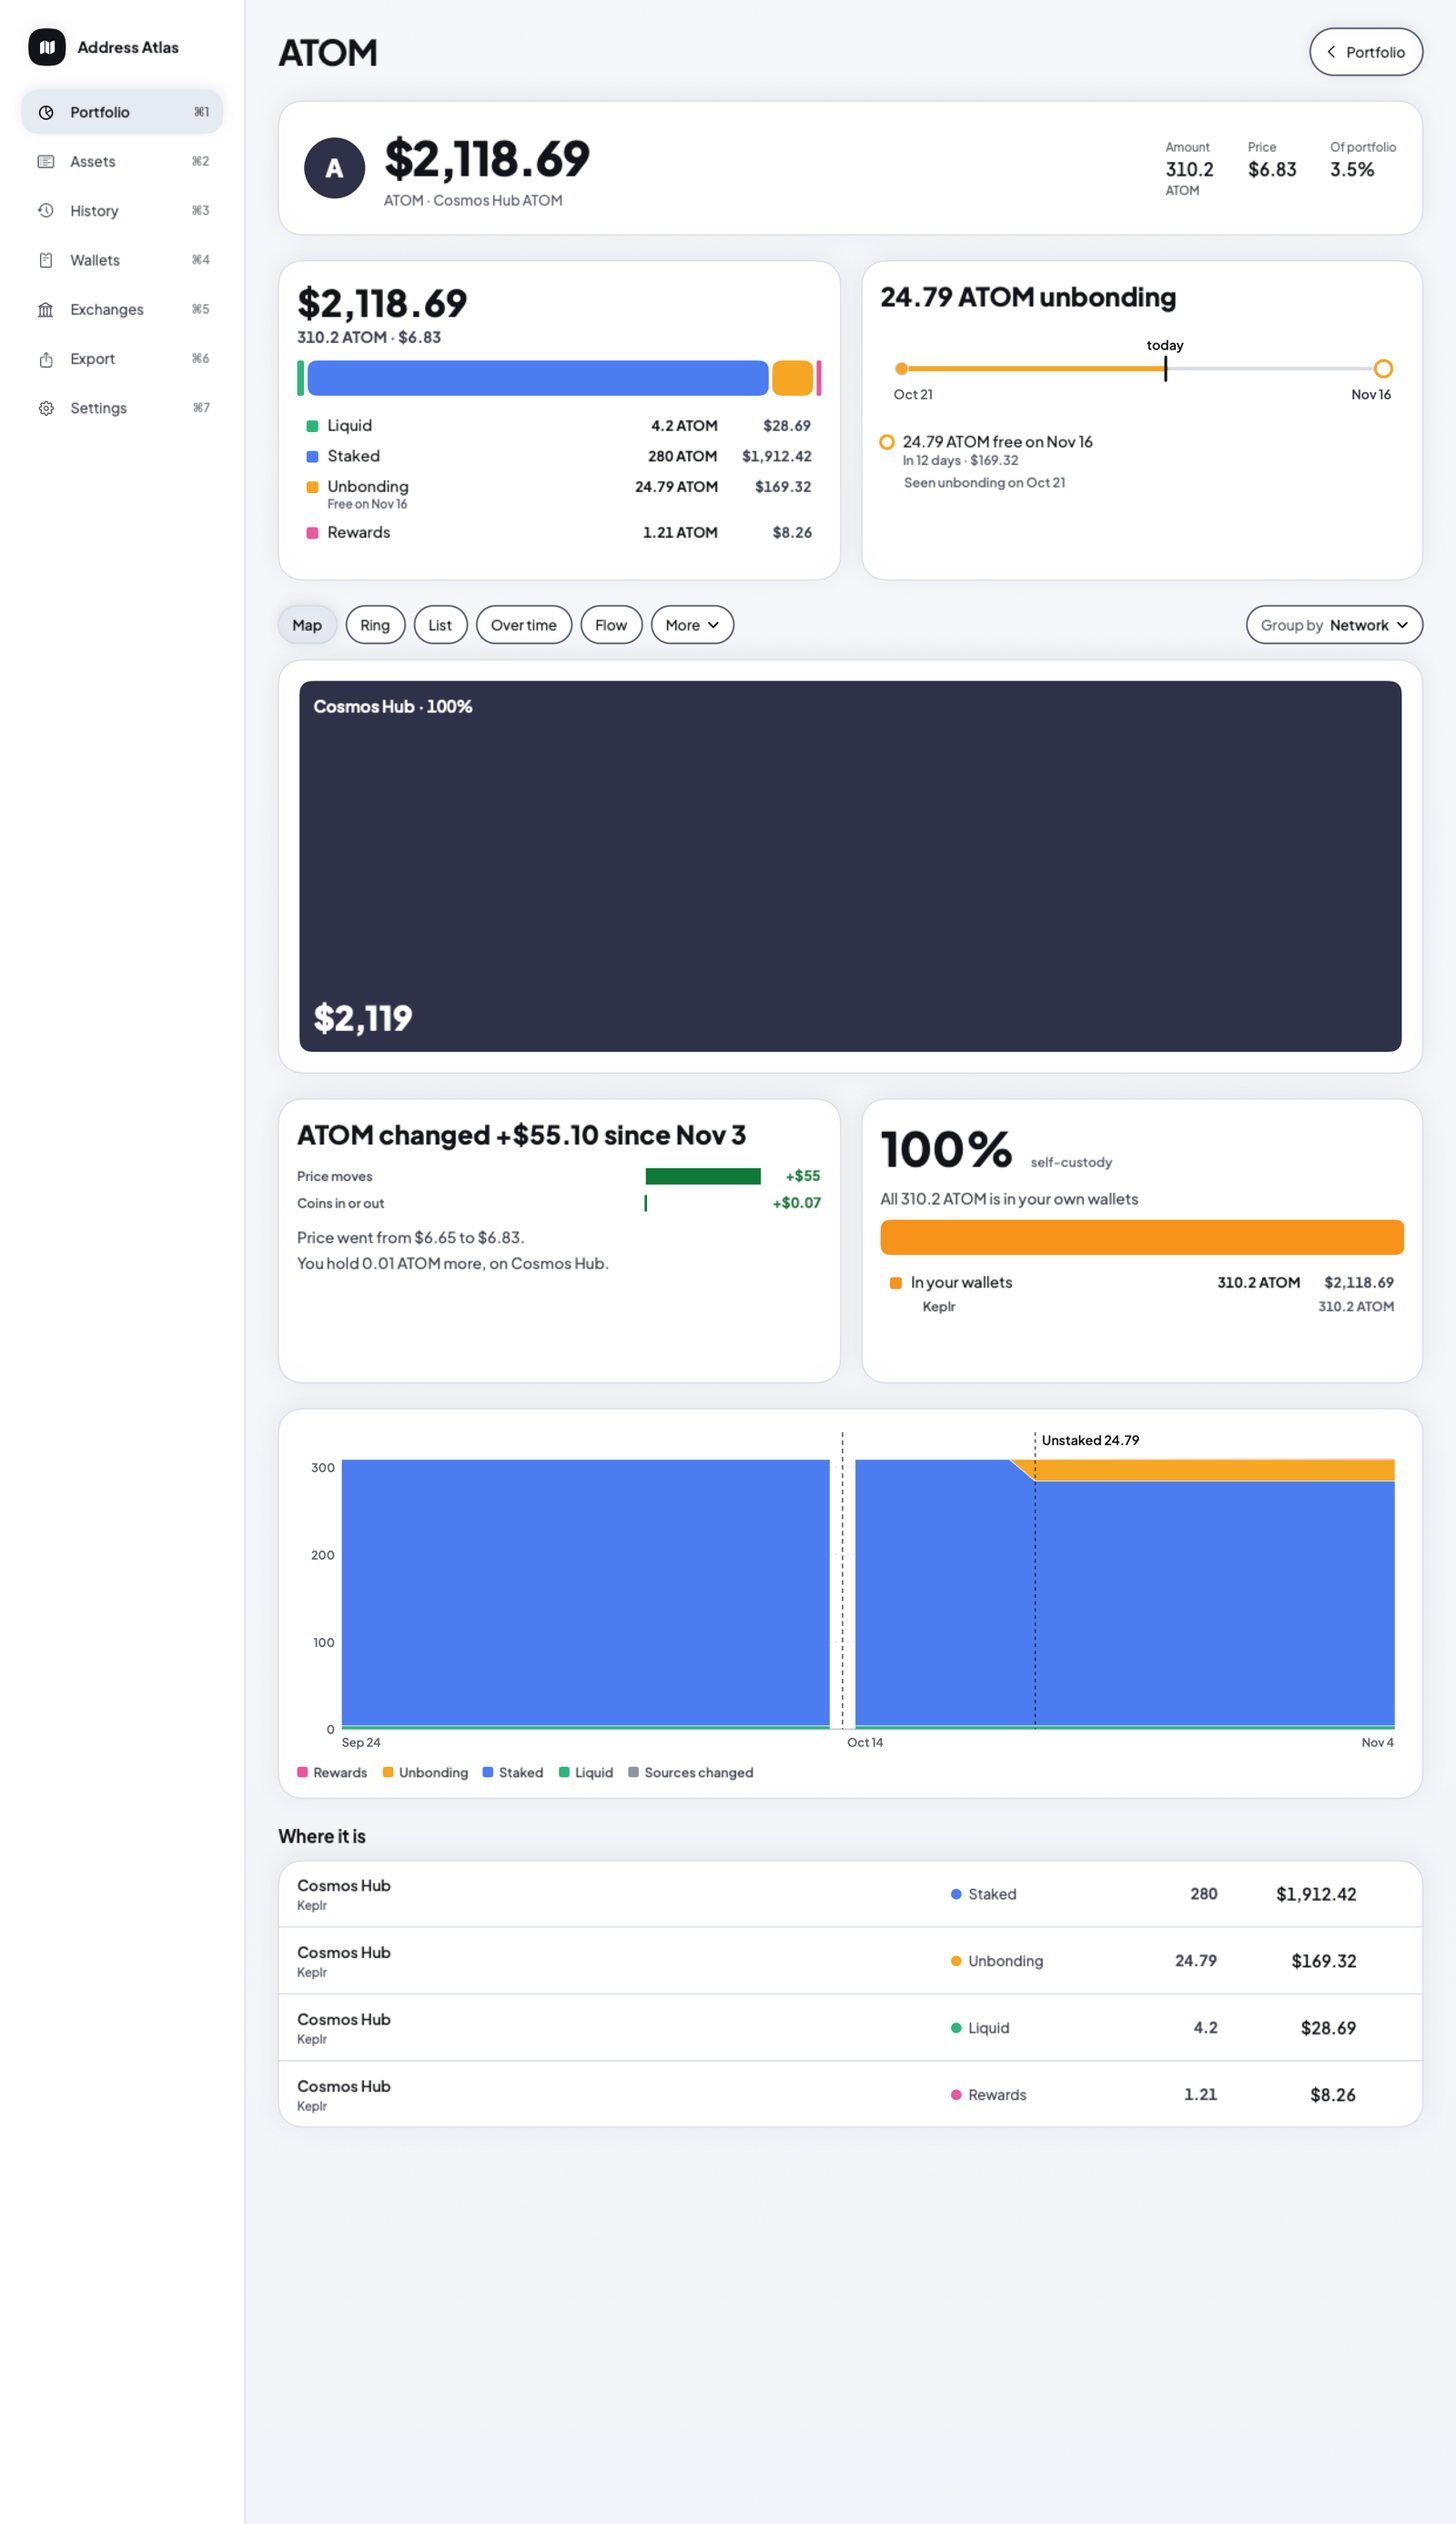
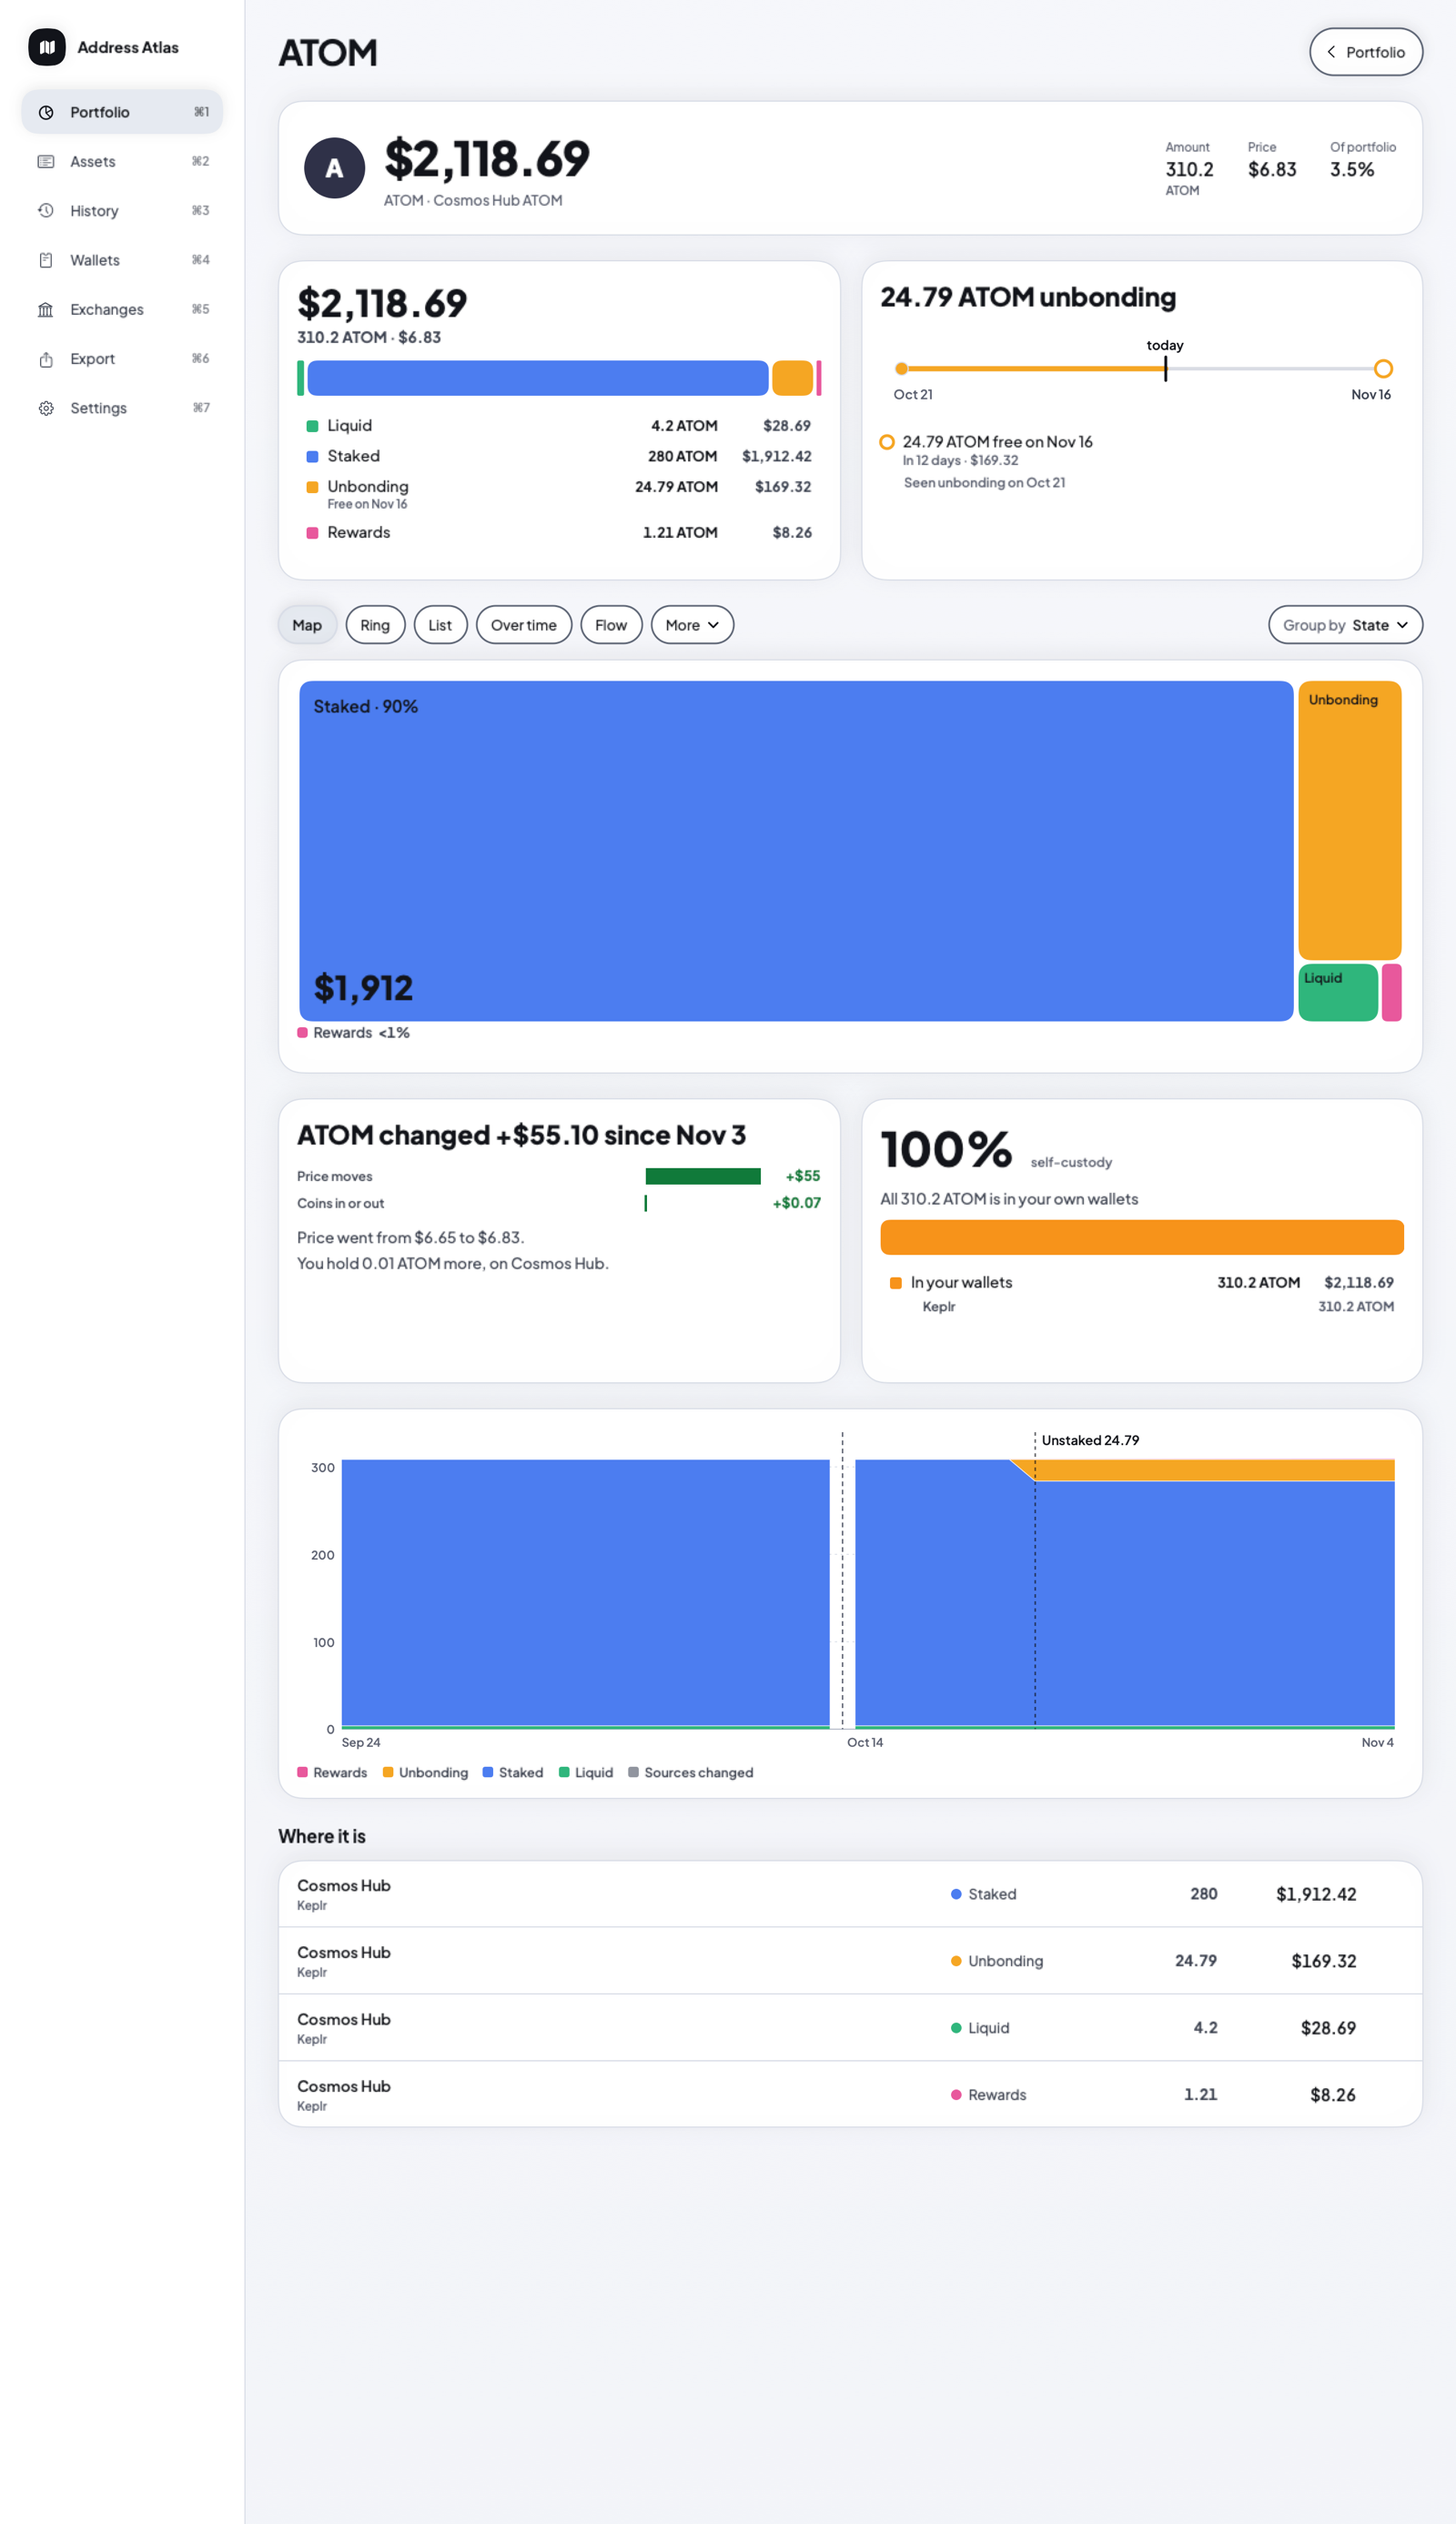
Fix pill outlines, narrow Concentration dial and coin detail grouping default
Pill controls draw as circular-corner capsules, the Concentration dial drops its
end labels and caption when it is narrow, and a coin held in several states opens
grouped by state.

Changed region(s): [[0.1875, 0.248, 0.9688, 0.434]]

diff --git a/native/AddressAtlasMac/Sources/AddressAtlasMac/MacScreens/CoinDetailScreen.swift b/native/AddressAtlasMac/Sources/AddressAtlasMac/MacScreens/CoinDetailScreen.swift
@@ -11,7 +11,8 @@ struct CoinDetailView: View {
   @Environment(\.macNow) private var now
 
   @State private var visualization: PortfolioVisualization
-  @State private var grouping: PortfolioGrouping
+  /// The grouping the user picked here (or the app was opened with), if any.
+  @State private var chosenGrouping: PortfolioGrouping?
   /// Limits the holdings list to one slice the user picked in a chart.
   @State private var rowFilter: MacSliceFilter?
 
@@ -29,8 +30,22 @@ struct CoinDetailView: View {
     self.coinKey = coinKey
     _visualization = State(
       initialValue: visualization.worksForSingleCoin ? visualization : .map)
-    _grouping = State(
-      initialValue: Self.groupings.contains(grouping) ? grouping : .network)
+    // The portfolio's default grouping is not a choice about this coin.
+    _chosenGrouping = State(
+      initialValue: grouping != .network && Self.groupings.contains(grouping) ? grouping : nil)
+  }
+
+  /// A coin held in one state (all liquid, say) splits usefully by network, but
+  /// one held in several (liquid, staked, unbonding) shows more by state, and
+  /// a single-network coin would otherwise show one block of 100%. Only the
+  /// default is chosen here; the menu always wins.
+  private var grouping: PortfolioGrouping {
+    if let chosenGrouping { return chosenGrouping }
+    return Set(holdings.map { HoldingState($0) }).count > 1 ? .state : .network
+  }
+
+  private var groupingBinding: Binding<PortfolioGrouping> {
+    Binding(get: { grouping }, set: { chosenGrouping = $0 })
   }
 
   private var holdingsCount: Int { holdings.count }
@@ -169,13 +184,13 @@ struct CoinDetailView: View {
           MacViewSwitcher(selection: $visualization, options: options)
           Spacer(minLength: 8)
           if visualization.usesGrouping {
-            MacGroupingMenu(selection: $grouping, options: Self.groupings)
+            MacGroupingMenu(selection: groupingBinding, options: Self.groupings)
           }
         }
         VStack(alignment: .leading, spacing: 10) {
           MacViewSwitcher(selection: $visualization, options: options)
           if visualization.usesGrouping {
-            MacGroupingMenu(selection: $grouping, options: Self.groupings)
+            MacGroupingMenu(selection: groupingBinding, options: Self.groupings)
           }
         }
       }

diff --git a/native/AddressAtlasMac/Sources/AddressAtlasMac/Charts/ConcentrationChartView.swift b/native/AddressAtlasMac/Sources/AddressAtlasMac/Charts/ConcentrationChartView.swift
@@ -125,21 +125,27 @@ struct ConcentrationChartView: View {
     context.fill(knobShape, with: .color(style.ink))
     context.stroke(knobShape, with: .color(style.surface), lineWidth: 2)
 
-    // The share of the largest group, in the middle of the dial.
-    let numberSize: CGFloat = isCompact ? 24 : 40
+    // The share of the largest group, in the middle of the dial. A narrow dial
+    // (a phone in portrait) has no room for the caption under it or for the
+    // labels at its ends, and a smaller figure; the sentence beside the dial and
+    // the level title below it say the same.
+    let roomy = size.width >= 210
+    let numberSize: CGFloat = min(isCompact ? 24 : 40, max(14, radius * (roomy ? 0.62 : 0.5)))
     context.historyDraw(
       model.topShareText, font: style.displayFont(numberSize, relativeTo: .largeTitle),
       color: style.ink, at: CGPoint(x: center.x, y: center.y - radius * 0.28), anchor: .center)
-    let caption = "in one \(model.singular)"
-    context.historyDraw(
-      caption, font: style.captionFont, color: style.ink3,
-      at: CGPoint(x: center.x, y: center.y - radius * 0.28 + numberSize * 0.62 + 4), anchor: .top)
+    if roomy {
+      let caption = "in one \(model.singular)"
+      context.historyDraw(
+        caption, font: style.captionFont, color: style.ink3,
+        at: CGPoint(x: center.x, y: center.y - radius * 0.28 + numberSize * 0.62 + 4), anchor: .top)
+    }
 
     // Ends of the dial.
     // Each label starts at its end of the dial and runs inward, so neither is
     // cut by the edge of the card. The compact dial has no room for them; its
     // level title says the same.
-    guard !isCompact else { return }
+    guard !isCompact, roomy else { return }
     let labelY = center.y + lineWidth / 2 + 4
     let half = size.width / 2 - 2
     if let spread = context.historyFit(

diff --git a/native/AddressAtlasMac/Sources/AddressAtlasMac/AtlasThemeRuntime.swift b/native/AddressAtlasMac/Sources/AddressAtlasMac/AtlasThemeRuntime.swift
@@ -311,6 +311,21 @@ private struct AtlasThemeEnvironmentModifier: ViewModifier {
 
 // MARK: - Shape-aware chrome
 
+/// The outline of a card or control: a continuous rounded rectangle, or, when
+/// the radius reaches half the shorter side (the pill controls pass 999), a
+/// circular-corner capsule. AppKit draws a `.continuous` rounded rectangle whose
+/// radius is as large as it is tall with a straight bar past each end.
+struct AtlasOutline: Shape {
+  var radius: CGFloat
+
+  func path(in rect: CGRect) -> Path {
+    if radius >= min(rect.width, rect.height) / 2 {
+      return Capsule(style: .circular).path(in: rect)
+    }
+    return RoundedRectangle(cornerRadius: radius, style: .continuous).path(in: rect)
+  }
+}
+
 /// Fill, border and shadow of a card or control, drawn from the current
 /// theme's shape: soft shadow (Chain colours), hard offset shadow (Candy,
 /// Pixel), or flat. Increase Contrast thickens borders and drops soft shadows.
@@ -340,7 +355,7 @@ struct AtlasChrome: ViewModifier {
       borderWidth ?? (level == .card ? shape.cardBorderWidth : shape.controlBorderWidth)
     let width = contrast == .increased ? max(baseWidth, 2) : baseWidth
     let hardOffset = level == .card ? shape.cardShadowOffset : shape.controlShadowOffset
-    let outline = RoundedRectangle(cornerRadius: resolvedRadius, style: .continuous)
+    let outline = AtlasOutline(radius: resolvedRadius)
     let press = (isPressed && hardOffset != nil) ? hardOffset : nil
 
     content

diff --git a/native/AddressAtlasMac/Sources/AddressAtlasMac/AtlasDesignSystem.swift b/native/AddressAtlasMac/Sources/AddressAtlasMac/AtlasDesignSystem.swift
@@ -1057,7 +1057,7 @@ struct AtlasPrimaryButtonStyle: ButtonStyle {
           radius: min(radius, 21)
         )
       }
-      .contentShape(RoundedRectangle(cornerRadius: radius, style: .continuous))
+      .contentShape(AtlasOutline(radius: radius))
       .scaleEffect(pressed && (!shape.hasHardShadows || hidesShadow) ? 0.985 : 1)
       .opacity(isEnabled ? 1 : 0.72)
       .animation(
@@ -1113,7 +1113,7 @@ struct AtlasSecondaryButtonStyle: ButtonStyle {
           radius: min(radius, 21)
         )
       }
-      .contentShape(RoundedRectangle(cornerRadius: radius, style: .continuous))
+      .contentShape(AtlasOutline(radius: radius))
       .scaleEffect(pressed && !shape.hasHardShadows ? 0.985 : 1)
       .animation(
         AtlasMotion.animation(AtlasMotion.quick, reduceMotion: reduceMotion),
